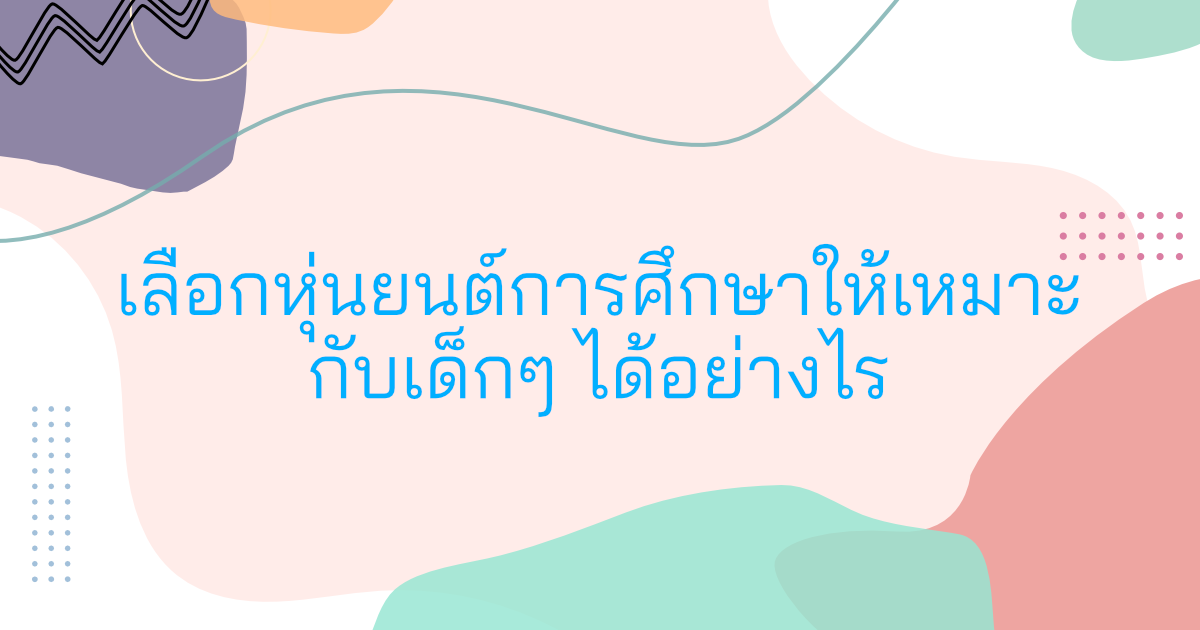
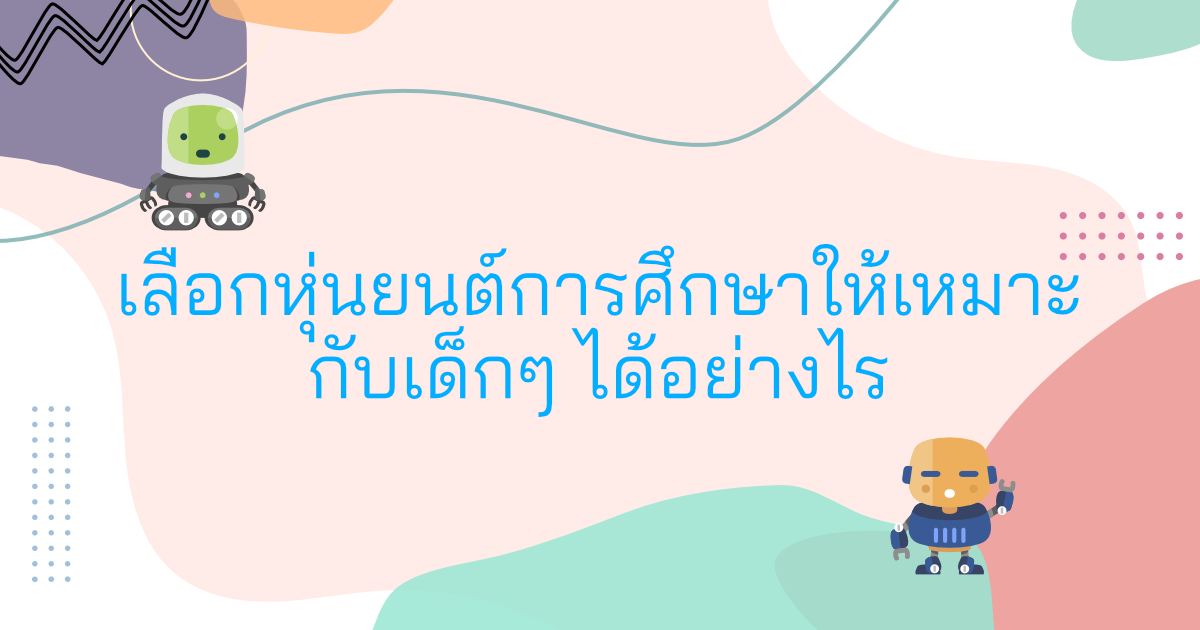
Add example robots

Changed region(s): [[0.74, 0.6937, 0.8633, 0.9349], [0.0925, 0.1508, 0.2467, 0.3921]]

diff --git a/stem/2021/01/07/choose-the-right-robot-for-your-kids.html b/stem/2021/01/07/choose-the-right-robot-for-your-kids.html
@@ -87,17 +87,30 @@
 </blockquote>
 
 <ol>
-  <li>
-    <p><strong>Physical Coded Robots</strong> หุ่นยนต์ประเภทนี้จะเน้นที่การเขียนโค้ดโดยไม่ใช้หน้าจอ หรือจะเรียกอีกอย่างก็คือ Unplug Coding โดยรูปร่างของหุ่นยนต์จะออกไปในเชิงของเล่น น่ารักๆ เหมาะกับเด็กช่วงอายุ 4 - 9 ขวบ ลักษณะของการสอนก็จะให้เด็กๆ ได้เรียนรู้พื้นฐานการเขียนโค้ด ไม่ว่าจะเป็นการคำสั่ง การทำงานตามลำดับ การคิดแยกแยะปัญหาแบบง่ายผ่านกิจกรรมต่างๆ (Play-based learning) ตัวอย่างหุ่นยนต์ประเภทนี้ก็ได้แก่ Bee-bot, Cubetto หรือ Matatalab เป็นต้น</p>
-  </li>
+  <li><strong>Physical Coded Robots</strong> หุ่นยนต์ประเภทนี้จะเน้นที่การเขียนโค้ดโดยไม่ใช้หน้าจอ หรือจะเรียกอีกอย่างก็คือ Unplug Coding โดยรูปร่างของหุ่นยนต์จะออกไปในเชิงของเล่น น่ารักๆ เหมาะกับเด็กช่วงอายุ 4 - 9 ขวบ ลักษณะของการสอนก็จะให้เด็กๆ ได้เรียนรู้พื้นฐานการเขียนโค้ด ไม่ว่าจะเป็นการคำสั่ง การทำงานตามลำดับ การคิดแยกแยะปัญหาแบบง่ายผ่านกิจกรรมต่างๆ (Play-based learning) ตัวอย่างหุ่นยนต์ประเภทนี้ก็ได้แก่ Bee-bot, Cubetto หรือ Matatalab เป็นต้น</li>
+</ol>
+
+<p><img src="/assets/images/posts/2021/choose-the-right-robot-for-your-kids/cubetto.png" alt="cubetto" width="400px" />
+<em>Cubetto</em></p>
+
+<ol>
   <li>
     <p><strong>Introductory Programmable Robots</strong> หุ่นยนต์ประเภทนี้อัพเกรดขึ้นมาจากประเภทแรก เริ่มเน้นเรื่องคอนเซปต์การเขียนโค้ดมากขึ้นผ่านตัวโปรแกรม ซึ่งก็จะเริ่มใช้หน้าจอไม่ว่าจะผ่านทาง Controller, Tablet หรือ Computer แต่ยังคงความสนุกสนานผ่านการกิจกรรม หรือเกมส์ (Just for fun and learning to code) ลักษณะหุ่นยนต์ก็ยังคงคล้ายๆ กับประเภทแรก เช่น Botley หรือ Dash เป็นต้น</p>
+
+    <p><img src="/assets/images/posts/2021/choose-the-right-robot-for-your-kids/dash.jpg" alt="dash" width="400px" />
+ <em>Dash</em></p>
   </li>
   <li>
     <p><strong>Computer Programmable Robots</strong> แน่นอนว่าหุ่นยนต์ประเภทนี้ก็จะอัพเกรตขึ้นมาจากประเภทที่สอง โดยหุ่นยนต์เริ่มมีเซนเซอร์อื่นๆ เข้ามาผสมด้วย ทำให้หุ่นยนต์นั้นมีความสามารถมากขึ้น น้องๆ ก็จะได้เรียนรู้เทคโนโลยีและวิธีการเขียนโค้ดที่ซับซ้อนขึ้น เช่น การเขียนบังคับให้หุ่นยนต์เดิน หลบหลีกสิ่งกีดขวาง หรือเคลื่อนไหวเมื่อมีเสียงก็ได้ การเขียนโค้ดก็จะอยู่ในรูป block-based และ text-based ขึ้นอยู่กับระดับการเรียนการสอน สำหรับรูปแบบการเรียนก็จะมุ่งเน้นผ่านกิจกรรม การออกแบบความคิดสร้างสรรค์เป็นโปรเจ็ค รวมถึงการแข่งขันในระดับต่างๆ หุ่นยนต์ประเภทนี้ได้แก่ Edison หรือ Sphero Bolt เป็นต้น</p>
+
+    <p><img src="/assets/images/posts/2021/choose-the-right-robot-for-your-kids/edison.png" alt="edison" width="300px" />
+ <em>Edison</em></p>
   </li>
   <li>
-    <p><strong>Kit-based Robots</strong> หุ่นยนต์ประเภทนี้เด็กๆ จะชอบกันมากเพราะตัวหุ่นยนต์จะแยกชิ้นส่วนมา และจะต้องประกอบร่างขึ้นมาให้สำเร็จ ซึ่งทำให้เด็กรู้สึกเหมือนได้สร้างหุ่นยนต์ขึ้นมาด้วยตัวเค้าเอง โดยหุ่นยนต์จะมีเซนเซอร์ หรือมอเตอร์ขับเคลื่อนมาด้วย ทำให้เมื่อการเขียนโค้ดสามารถไปควบคุมสั่งงานให้หุ่นยนต์มีการขยับ หรือเคลื่อนที่ตามที่ต้องการ การเขียนโค้ดก็จะผ่าน Tablet ซะเป็นส่วนใหญ่ หุ่นยนต์ประเภทนี้ก็ได้แก่ LEGO Mindstroms EV3 หรือ VEX เป็นต้น</p>
+    <p><strong>Kit-based Robots</strong> หุ่นยนต์ประเภทนี้เด็กๆ จะชอบกันมากเพราะตัวหุ่นยนต์จะแยกชิ้นส่วนมา และจะต้องประกอบร่างขึ้นมาให้สำเร็จ ซึ่งทำให้เด็กรู้สึกเหมือนได้สร้างหุ่นยนต์ขึ้นมาด้วยตัวเค้าเอง โดยหุ่นยนต์จะมีเซนเซอร์ หรือมอเตอร์ขับเคลื่อนมาด้วย ทำให้เมื่อการเขียนโค้ดสามารถไปควบคุมสั่งงานให้หุ่นยนต์มีการขยับ หรือเคลื่อนที่ตามที่ต้องการ การเขียนโค้ดก็จะผ่าน Tablet ซะเป็นส่วนใหญ่ หุ่นยนต์ประเภทนี้ก็ได้แก่ LEGO Mindstorms EV3 หรือ VEX เป็นต้น</p>
+
+    <p><img src="/assets/images/posts/2021/choose-the-right-robot-for-your-kids/lego-mindstorm.jpg" alt="mindstorm" width="300px" />
+ <em>LEGO Mindstorm EV3</em></p>
   </li>
 </ol>
 
